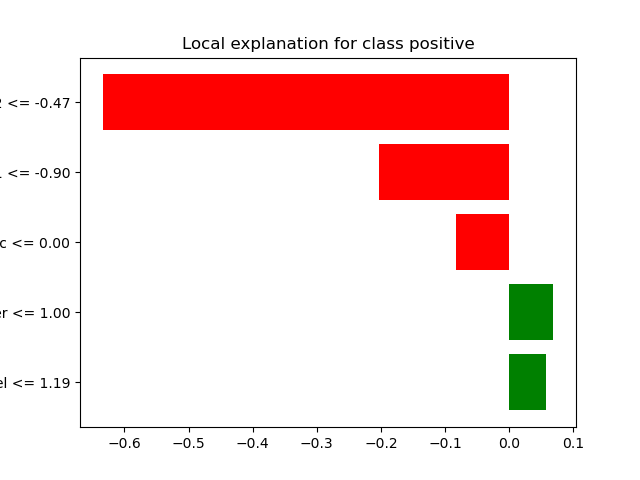
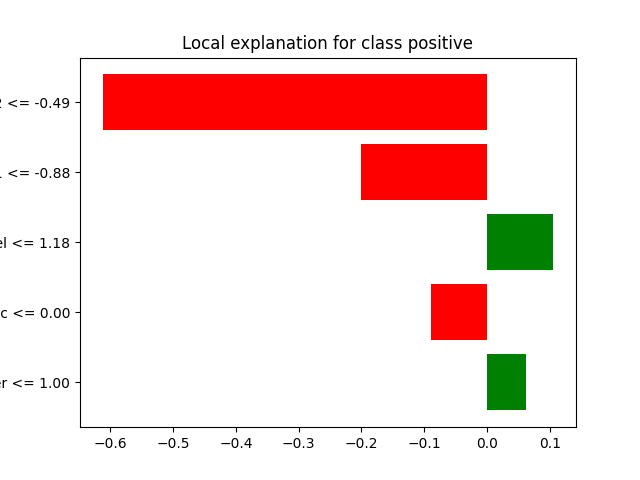
Fix import issue in train.py and assess PR completeness

diff --git a/figures/lime_36.html b/figures/lime_36.html
@@ -37089,25 +37089,25 @@
 /***/ })
 /******/ ]);
 //# sourceMappingURL=bundle.js.map </script></head><body>
-        <div class="lime top_div" id="top_divN6E4Q96876VP8ZW"></div>
+        <div class="lime top_div" id="top_divRS0IJRM2WFSZLXO"></div>
         
         <script>
-        var top_div = d3.select('#top_divN6E4Q96876VP8ZW').classed('lime top_div', true);
+        var top_div = d3.select('#top_divRS0IJRM2WFSZLXO').classed('lime top_div', true);
         
             var pp_div = top_div.append('div')
                                 .classed('lime predict_proba', true);
             var pp_svg = pp_div.append('svg').style('width', '100%');
-            var pp = new lime.PredictProba(pp_svg, ["negative", "positive"], [0.9092947403029288, 0.09070525969707122]);
+            var pp = new lime.PredictProba(pp_svg, ["negative", "positive"], [0.33927211178923866, 0.6607278882107613]);
             
         
         var exp_div;
             var exp = new lime.Explanation(["negative", "positive"]);
         
                 exp_div = top_div.append('div').classed('lime explanation', true);
-                exp.show([["num__G2 <= -0.49", -0.6125423145574838], ["num__G1 <= -0.88", -0.19992188727798157], ["0.04 < num__famrel <= 1.18", 0.10605354868743791], ["ord__Walc <= 0.00", -0.08916637068216232], ["0.00 < cat__Fjob_other <= 1.00", 0.06263030399440256]], 1, exp_div);
+                exp.show([["num__G2 <= -0.49", -0.6195618119910711], ["ord__Walc > 2.00", 0.1186358139494538], ["0.04 < num__famrel <= 1.18", 0.09748219930485245], ["cat__schoolsup_yes <= 0.00", 0.062104060711594765], ["0.00 < cat__Fjob_other <= 1.00", 0.057071193089845686]], 1, exp_div);
                 
         var raw_div = top_div.append('div');
-            exp.show_raw_tabular([["num__G2", "-0.49", -0.6125423145574838], ["num__G1", "-0.88", -0.19992188727798157], ["num__famrel", "1.18", 0.10605354868743791], ["ord__Walc", "0.00", -0.08916637068216232], ["cat__Fjob_other", "1.00", 0.06263030399440256]], 1, raw_div);
+            exp.show_raw_tabular([["num__G2", "-1.03", -0.6195618119910711], ["ord__Walc", "3.00", 0.1186358139494538], ["num__famrel", "1.18", 0.09748219930485245], ["cat__schoolsup_yes", "0.00", 0.062104060711594765], ["cat__Fjob_other", "1.00", 0.057071193089845686]], 1, raw_div);
         
         </script>
         </body></html>

diff --git a/figures/lime_31.html b/figures/lime_31.html
@@ -37089,25 +37089,25 @@
 /***/ })
 /******/ ]);
 //# sourceMappingURL=bundle.js.map </script></head><body>
-        <div class="lime top_div" id="top_divWIHCEXD33UBNJWR"></div>
+        <div class="lime top_div" id="top_divX6I2OD704YDFH4U"></div>
         
         <script>
-        var top_div = d3.select('#top_divWIHCEXD33UBNJWR').classed('lime top_div', true);
+        var top_div = d3.select('#top_divX6I2OD704YDFH4U').classed('lime top_div', true);
         
             var pp_div = top_div.append('div')
                                 .classed('lime predict_proba', true);
             var pp_svg = pp_div.append('svg').style('width', '100%');
-            var pp = new lime.PredictProba(pp_svg, ["negative", "positive"], [0.6437899966932901, 0.35621000330671]);
+            var pp = new lime.PredictProba(pp_svg, ["negative", "positive"], [0.7530151937952668, 0.24698480620473318]);
             
         
         var exp_div;
             var exp = new lime.Explanation(["negative", "positive"]);
         
                 exp_div = top_div.append('div').classed('lime explanation', true);
-                exp.show([["num__G2 <= -0.47", -0.6322823825739451], ["num__G1 <= -0.90", -0.22744692392552046], ["num__age <= -0.52", 0.07579263686722859], ["ord__Walc <= 0.00", -0.07045961848112887], ["cat__Fjob_other <= 0.00", -0.061307978771153966]], 1, exp_div);
+                exp.show([["num__G2 <= -0.49", -0.6007443920065648], ["num__G1 <= -0.88", -0.20690870141730425], ["ord__Walc <= 0.00", -0.09424695822122828], ["0.04 < num__famrel <= 1.18", 0.08976012108663368], ["cat__Fjob_other <= 0.00", -0.06073346781764469]], 1, exp_div);
                 
         var raw_div = top_div.append('div');
-            exp.show_raw_tabular([["num__G2", "-0.73", -0.6322823825739451], ["num__G1", "-0.90", -0.22744692392552046], ["num__age", "-1.31", 0.07579263686722859], ["ord__Walc", "0.00", -0.07045961848112887], ["cat__Fjob_other", "0.00", -0.061307978771153966]], 1, raw_div);
+            exp.show_raw_tabular([["num__G2", "-0.76", -0.6007443920065648], ["num__G1", "-0.88", -0.20690870141730425], ["ord__Walc", "0.00", -0.09424695822122828], ["num__famrel", "1.18", 0.08976012108663368], ["cat__Fjob_other", "0.00", -0.06073346781764469]], 1, raw_div);
         
         </script>
         </body></html>

diff --git a/src/train.py b/src/train.py
@@ -24,10 +24,11 @@ import warnings
 import itertools
 import logging
 
-from logging_config import setup_logging
 try:
+    from .logging_config import setup_logging
     from .utils import ensure_dir
 except ImportError:  # pragma: no cover - fallback for direct execution
+    from logging_config import setup_logging
     from utils import ensure_dir
 
 def _configure_warnings() -> None:
